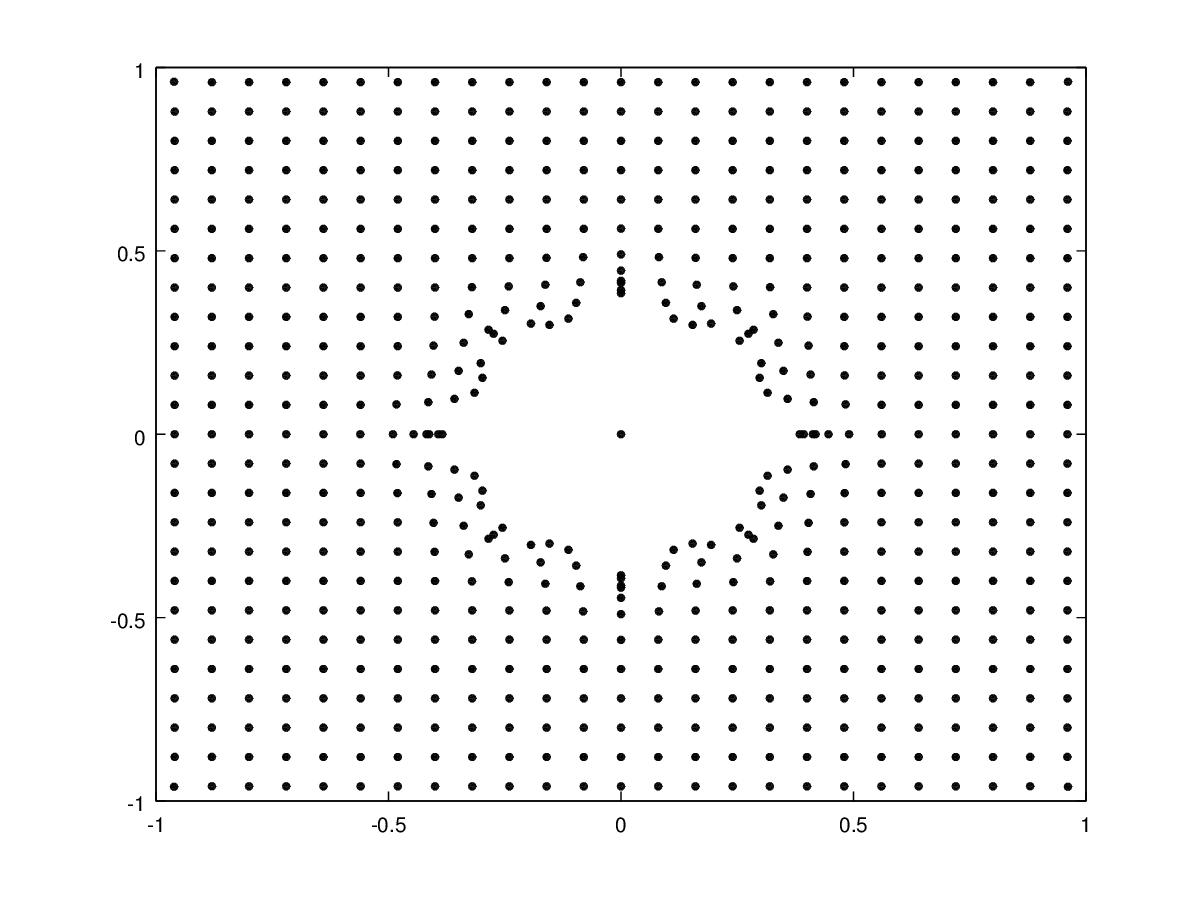
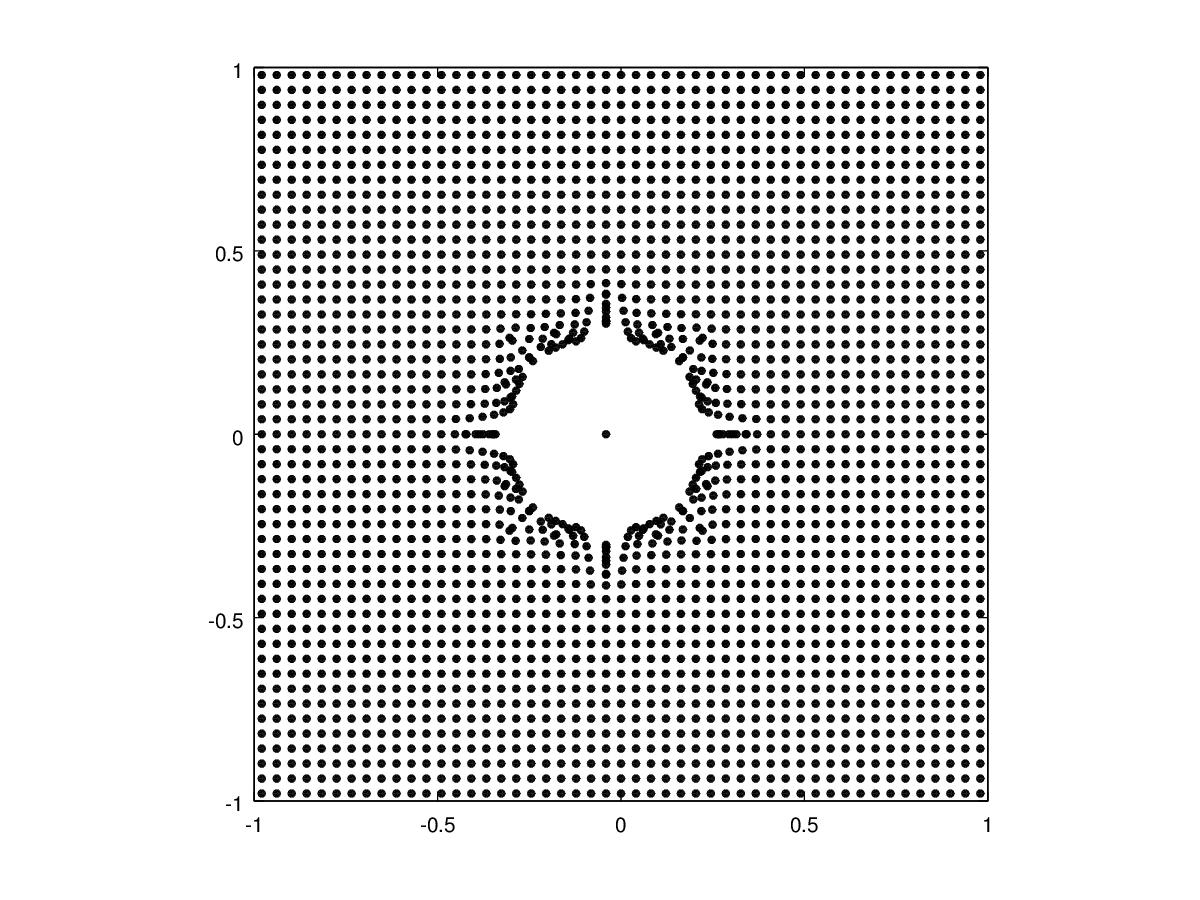
better plotting, higher res imgs

Changed region(s): [[0.0925, 0.0622, 0.8942, 0.9333], [0.4933, 0.4667, 0.5242, 0.4978]]

diff --git a/output/plotscripts/load_r.m b/output/plotscripts/load_r.m
@@ -1,5 +1,5 @@
 % This is a script to load the positions and density
-function [A B C]=load_r(n,prop)
+function [A B C RHO M]=load_r(n,prop)
 if(n<=9) p1='0000';
 elseif(n<=99) p1='000';
 elseif(n<=999) p1='00';
@@ -14,4 +14,10 @@ B=B1(:,2);
 fname3=strcat('../h',p1,num2str(n),'.out');
 C1=load(fname3);
 C=C1(:,2);
+fname4=strcat('../m',p1,num2str(n),'.out');
+M1=load(fname4);
+M=M1(:,2);
+fname5=strcat('../rho',p1,num2str(n),'.out');
+RHO1=load(fname5);
+RHO=RHO1(:,2);
 endfunction

diff --git a/output/plotscripts/temp_run.m b/output/plotscripts/temp_run.m
@@ -1,11 +1,12 @@
 % this is a script to bundle the functions together.
 % temporary...
-function temp_run(n,prop)
+function temp_run(n,PROP)
 
-[r rho h]=load_r(n,prop);
+[r prop h rho m]=load_r(n,PROP);
 [x y]=grid_gen(r);
-prop_xy=interp(r,x,y,rho,h);
+pp=m.*prop./rho;
+prop_xy=interp(r,x,y,pp,h);
 colormap('hot')
 surf(x,y,prop_xy);shading interp;view([0 90])
-xlabel('x');ylabel('y');colorbar;
+xlabel('x');ylabel('y');title(PROP);colorbar;
 endfunction

diff --git a/README.md b/README.md
@@ -20,7 +20,7 @@ Bugs and so on:
   * Why does \Omega\ne 1.0 cause the wrong results?;
   * 1d Sod - requires smoothing of initial conditions;
   * Create some inflow/outflow boundary conditions;
-  * It's a bit coordinate affected...
+  * Should have isometric arrangement to start with;
   * Implement w.
 
 ![alt text](https://raw.githubusercontent.com/jrcking/kingsph/master/img/tron.jpg  "Sedov explosion particle positions")
